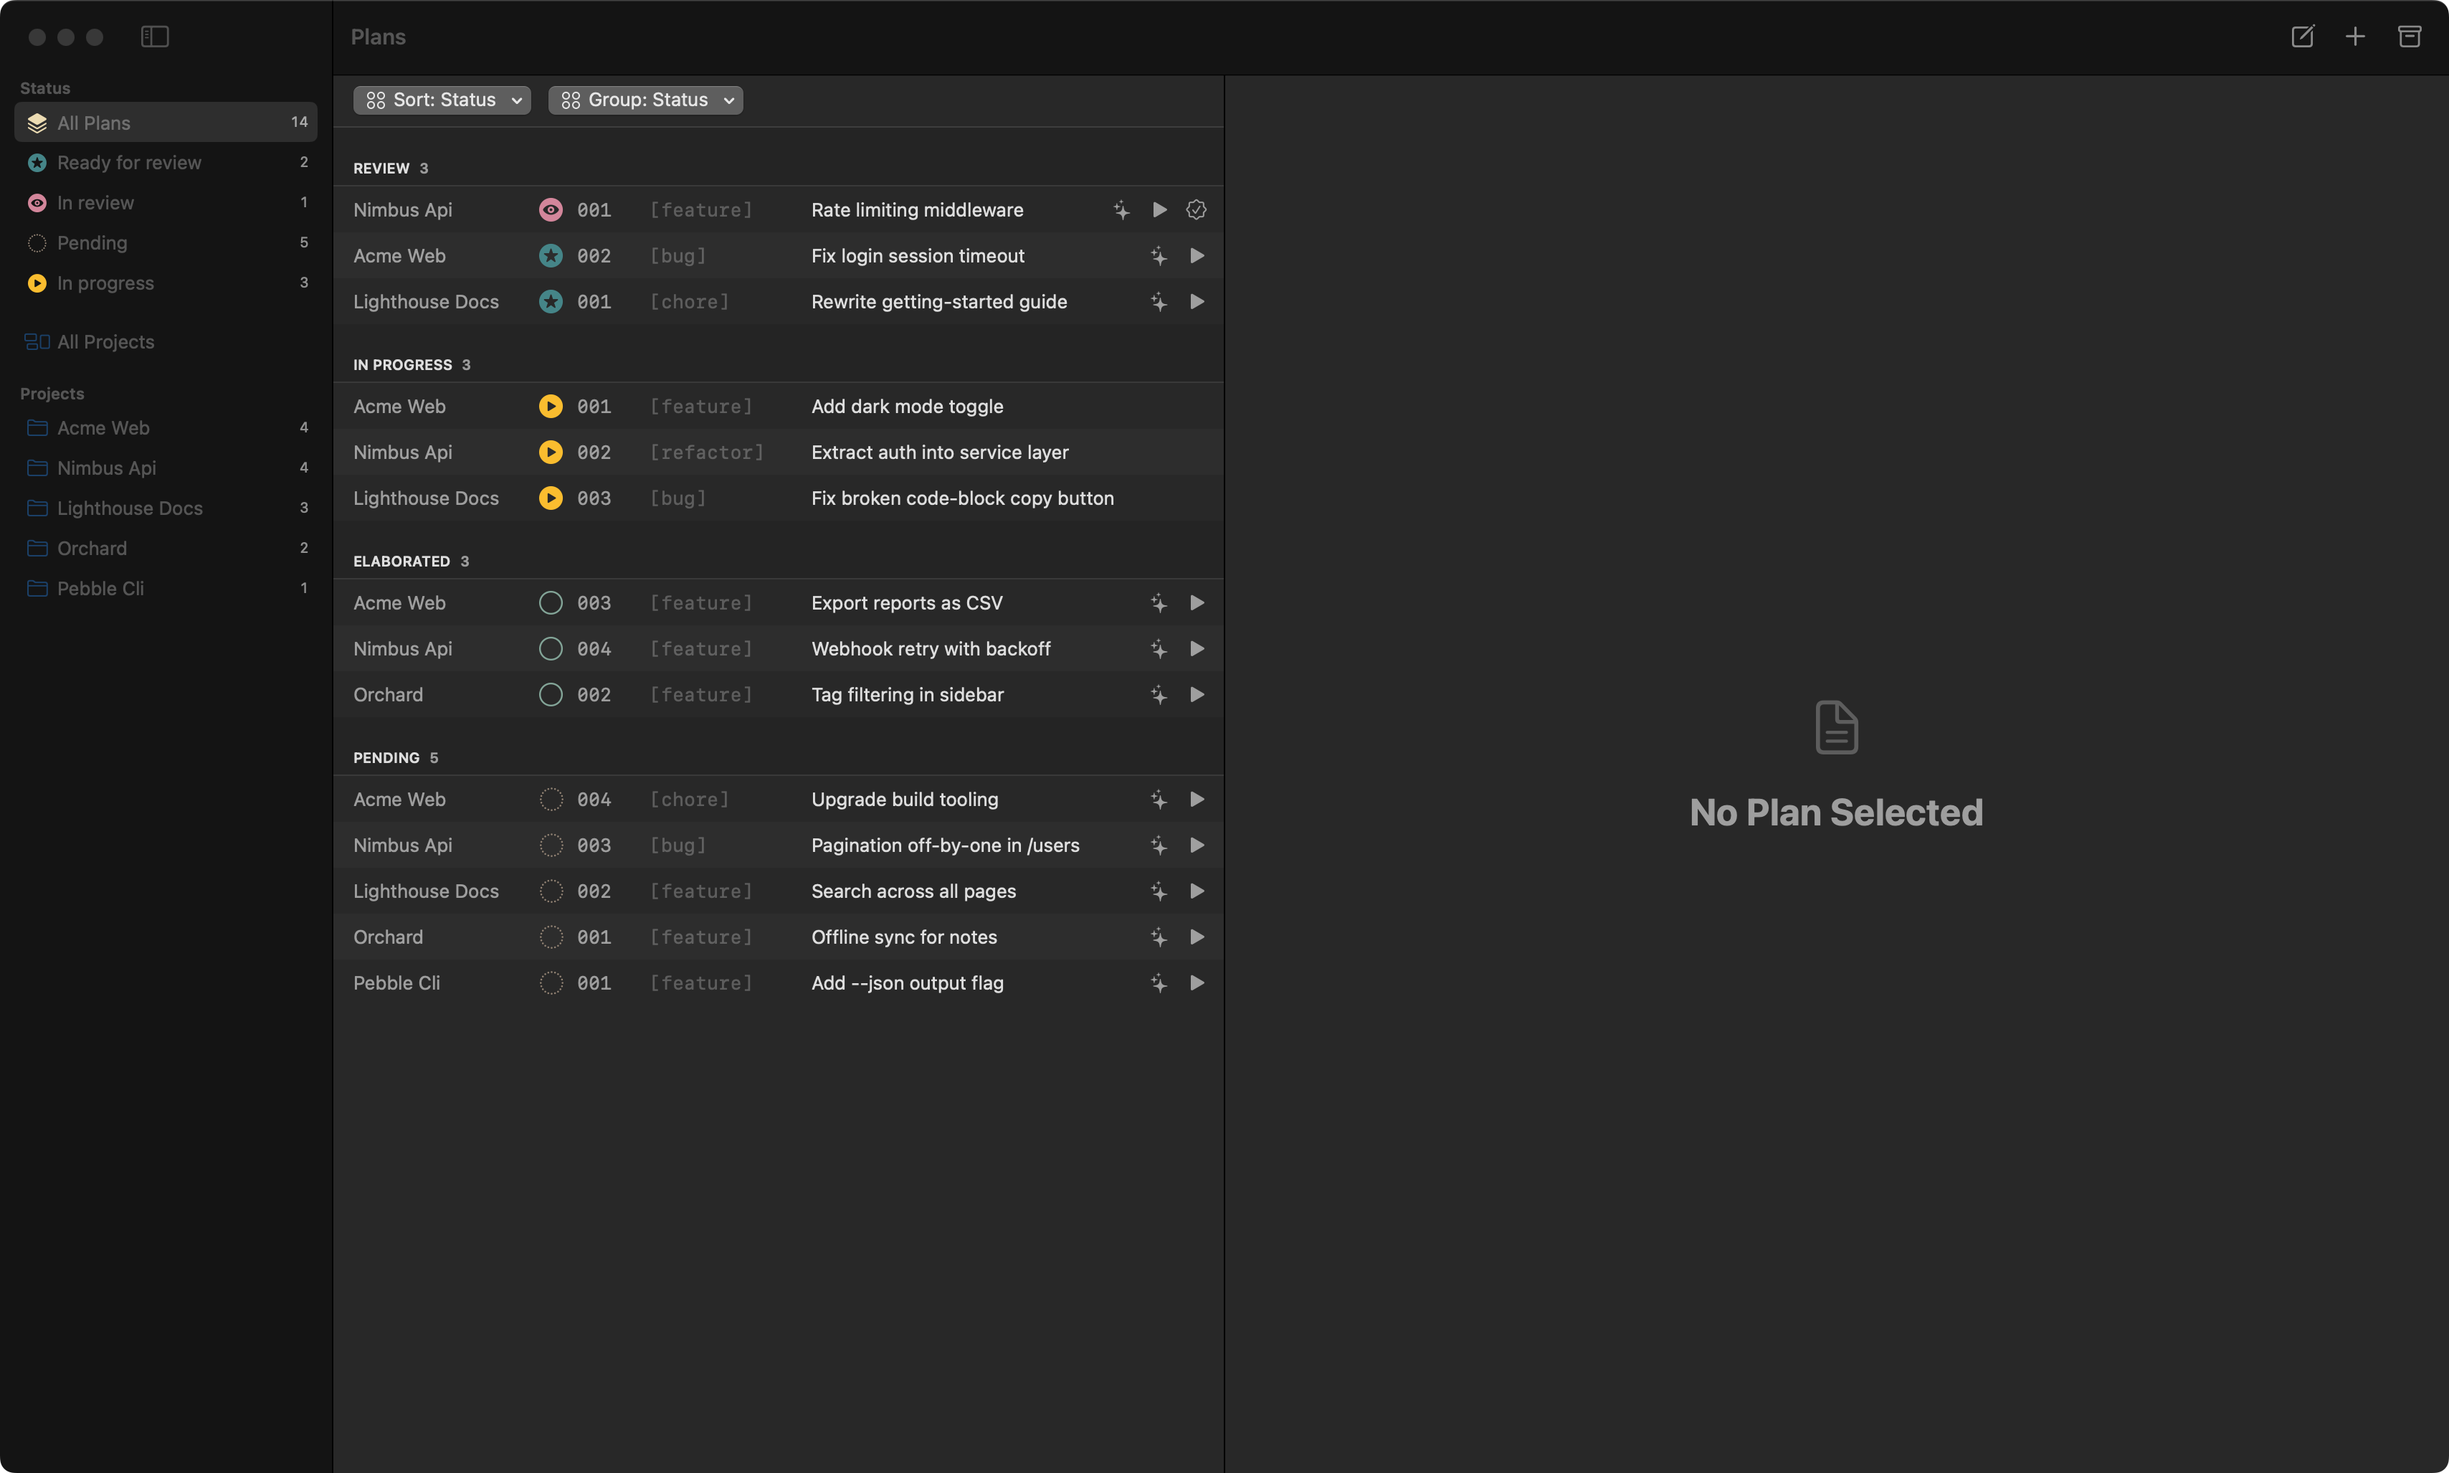
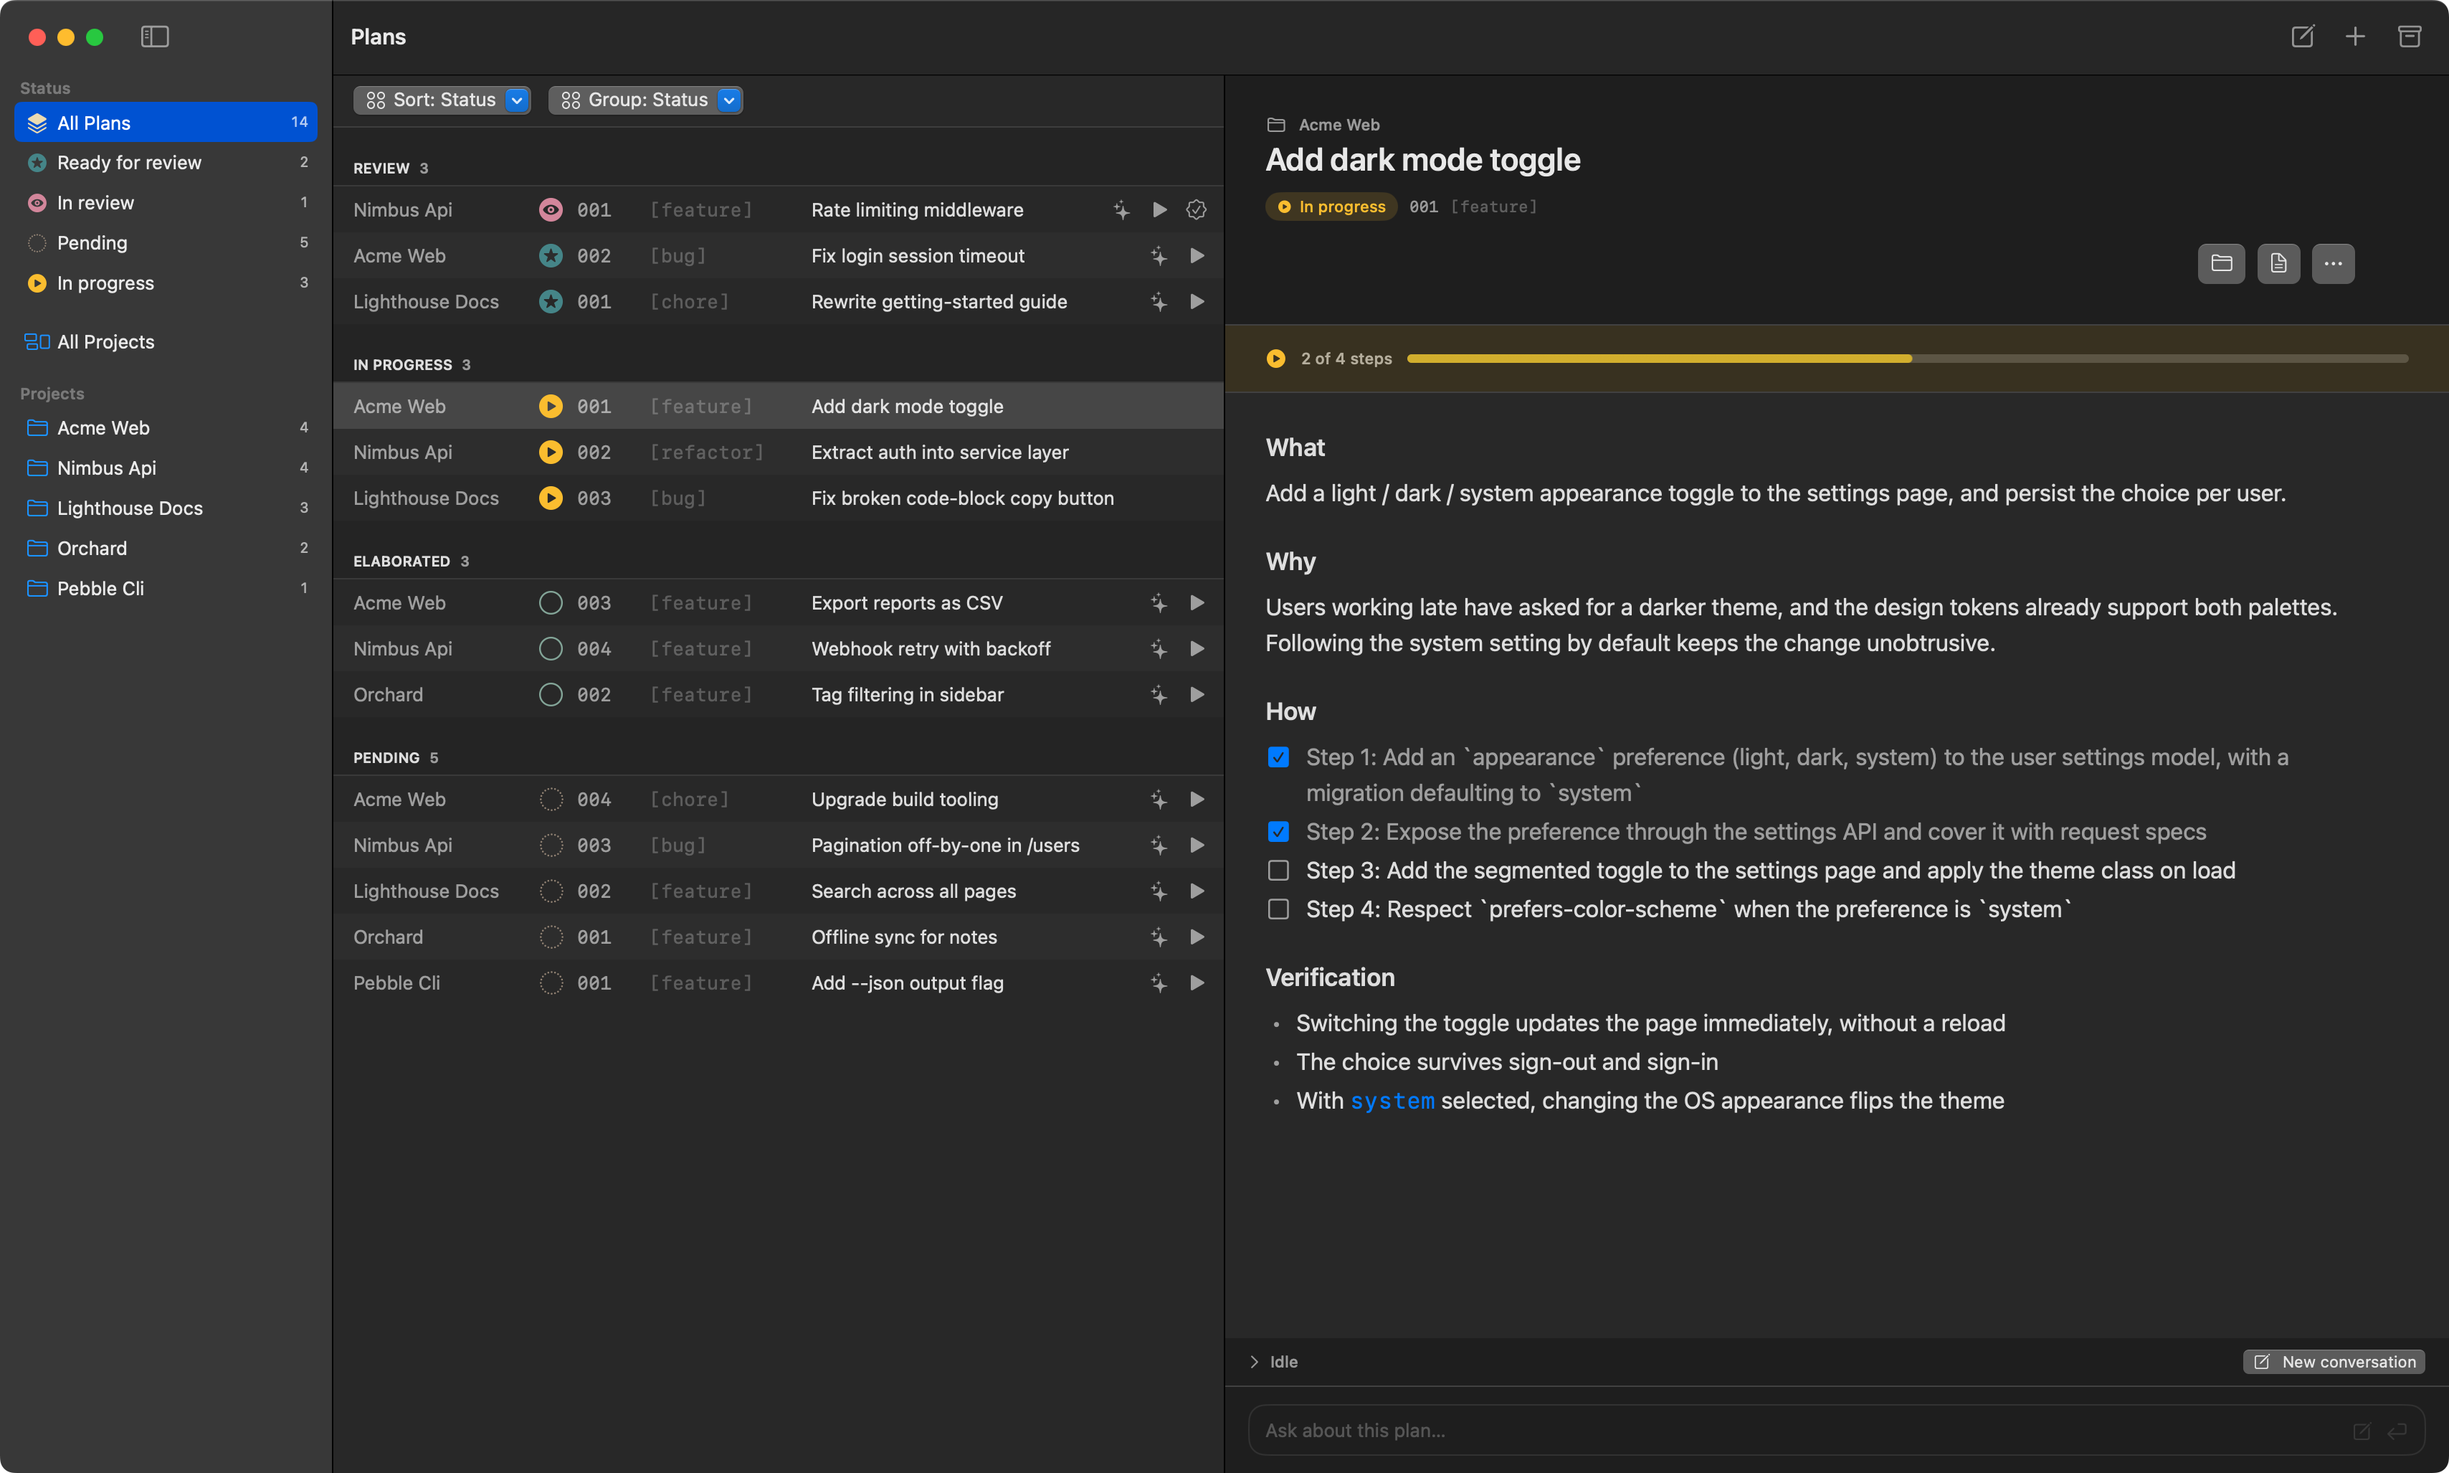
docs: show a selected plan's detail in the browser-window screenshot

diff --git a/README.md b/README.md
@@ -26,7 +26,7 @@
 
 ![Plans menu-bar glance — per-project task counts by status in the macOS menu bar](docs/images/menubar-glance.png)
 
-![Plans browser window — cross-project task list grouped by status](docs/images/browser-window.png)
+![Plans browser window — cross-project task list with the selected plan's detail and agent dock](docs/images/browser-window.png)
 
 ## Requirements
 
